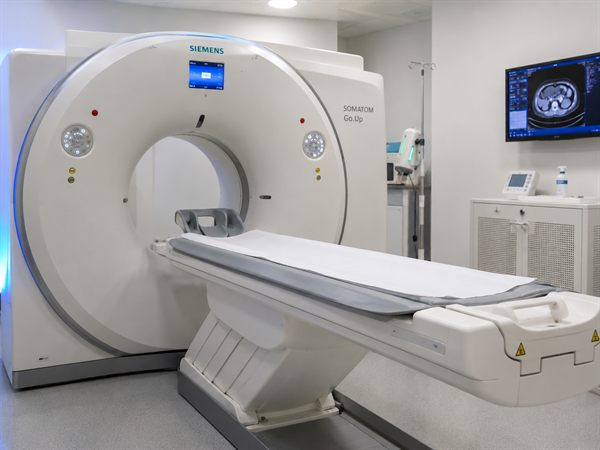
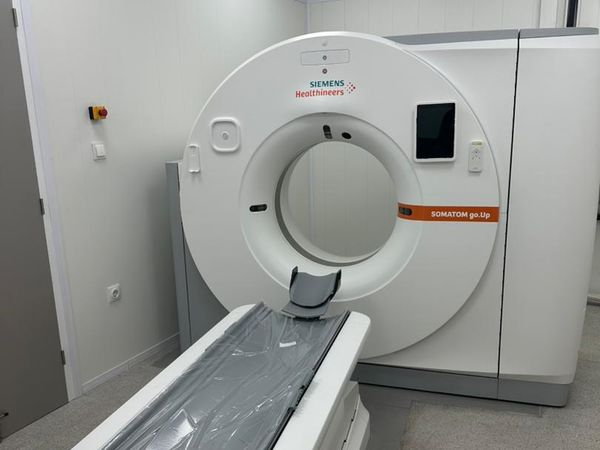
Photo reelle du scanner Siemens SOMATOM go.Up : page Scanner (FR/AR) et carte Scanner de l'accueil

diff --git a/ar/scanner/index.html b/ar/scanner/index.html
@@ -19,7 +19,7 @@
 <meta property="og:url" content="https://cimdrmerad.com/ar/scanner/">
 <meta property="og:title" content="سكانير 64 شريحة في بئر توتة | CIM الدكتور مراد">
 <meta property="og:description" content="سكانير 64 شريحة: الرأس، الصدر، البطن، العمود الفقري، سكانير القولون والأوعية. بدون موعد، بوصفة طبية.">
-<meta property="og:image" content="https://cimdrmerad.com/assets/service-scanner.jpg">
+<meta property="og:image" content="https://cimdrmerad.com/assets/scanner-somatom-go-up.jpg">
 <meta property="og:locale" content="ar_DZ">
 
 <link rel="icon" type="image/png" href="/assets/favicon.png">
@@ -137,7 +137,7 @@
   <section class="page-hero">
     <p class="breadcrumb"><a href="/ar/">الرئيسية</a> › السكانير</p>
     <h1 class="page-hero-title">سكانير 64 شريحة في بئر توتة</h1>
-    <p>سكانير متعدد الشرائح Siemens بـ 64 شريحة مع إعادة بناء ثلاثي الأبعاد. الفحوصات يُجريها ويقرأها الدكتور مراد، طبيب الأشعة.</p>
+    <p>سكانير متعدد الشرائح Siemens SOMATOM go.Up بـ 64 شريحة مع إعادة بناء ثلاثي الأبعاد. الفحوصات يُجريها ويقرأها الدكتور مراد، طبيب الأشعة.</p>
     <div class="hero-buttons">
       <a href="https://wa.me/213552055077?text=%D8%A7%D9%84%D8%B3%D9%84%D8%A7%D9%85%20%D8%B9%D9%84%D9%8A%D9%83%D9%85%D8%8C%20%D8%A3%D8%B1%D9%8A%D8%AF%20%D9%85%D8%B9%D9%84%D9%88%D9%85%D8%A7%D8%AA%20%D8%B9%D9%86%20%D8%A7%D9%84%D8%B3%D9%83%D8%A7%D9%86%D9%8A%D8%B1." target="_blank" rel="noopener" class="btn btn-whatsapp">أرسل وصفتك الطبية عبر واتساب</a>
       <a href="https://www.google.com/maps?cid=11169275753900821591" target="_blank" rel="noopener" class="btn btn-outline">موقعنا</a>
@@ -148,9 +148,15 @@
     <div class="container">
       <h2 class="section-title fade-in">ما هو السكانير؟</h2>
       <div class="section-line fade-in"></div>
-      <div class="exam-intro fade-in">
+      <div class="exam-intro-grid fade-in">
+        <div class="exam-intro">
         <p>السكانير (التصوير المقطعي) يستعمل الأشعة السينية للحصول على صور مقطعية دقيقة جدًا للجسم. جهازنا ذو 64 شريحة يسمح بتصوير سريع وإعادة بناء ثلاثي الأبعاد، لفحص الدماغ والصدر والبطن والعظام والعمود الفقري والأوعية الدموية.</p>
         <p>الفحص غير مؤلم ويستغرق بضع دقائق فقط. حسب المنطقة المفحوصة، قد يطلب طبيبكم سكانير بالحقن بمادة ملوّنة تجعل بعض الأعضاء والأوعية أكثر وضوحًا.</p>
+      </div>
+        <figure class="exam-photo">
+          <img src="/assets/scanner-somatom-go-up.jpg" alt="جهاز السكانير Siemens SOMATOM go.Up بـ 64 شريحة في مركز الدكتور مراد ببئر توتة" width="660" height="880" loading="lazy">
+          <figcaption>جهاز السكانير Siemens SOMATOM go.Up في مركزنا</figcaption>
+        </figure>
       </div>
     </div>
   </section>

diff --git a/scanner/index.html b/scanner/index.html
@@ -19,7 +19,7 @@
 <meta property="og:url" content="https://cimdrmerad.com/scanner/">
 <meta property="og:title" content="Scanner 64 coupes à Birtouta | CIM Dr MERAD">
 <meta property="og:description" content="Scanner multibarrettes 64 coupes Siemens : crâne, thorax, abdomen, rachis, coloscanner, angioscanner. Sans rendez-vous, sur ordonnance.">
-<meta property="og:image" content="https://cimdrmerad.com/assets/service-scanner.jpg">
+<meta property="og:image" content="https://cimdrmerad.com/assets/scanner-somatom-go-up.jpg">
 <meta property="og:locale" content="fr_FR">
 
 <link rel="icon" type="image/png" href="/assets/favicon.png">
@@ -137,7 +137,7 @@
   <section class="page-hero">
     <p class="breadcrumb"><a href="/">Accueil</a> › Scanner</p>
     <h1 class="page-hero-title">Scanner 64 coupes à Birtouta</h1>
-    <p>Scanner multibarrettes Siemens 64 coupes avec reconstruction 3D. Examens réalisés et interprétés par le Dr MERAD, médecin radiologue.</p>
+    <p>Scanner multibarrettes Siemens SOMATOM go.Up 64 coupes avec reconstruction 3D. Examens réalisés et interprétés par le Dr MERAD, médecin radiologue.</p>
     <div class="hero-buttons">
       <a href="https://wa.me/213552055077?text=Bonjour%2C%20je%20souhaite%20des%20informations%20sur%20un%20scanner." target="_blank" rel="noopener" class="btn btn-whatsapp">Envoyer mon ordonnance sur WhatsApp</a>
       <a href="https://www.google.com/maps?cid=11169275753900821591" target="_blank" rel="noopener" class="btn btn-outline">Nous localiser</a>
@@ -148,9 +148,15 @@
     <div class="container">
       <h2 class="section-title fade-in">Qu'est-ce qu'un scanner ?</h2>
       <div class="section-line fade-in"></div>
-      <div class="exam-intro fade-in">
+      <div class="exam-intro-grid fade-in">
+        <div class="exam-intro">
         <p>Le scanner (ou tomodensitométrie, TDM) utilise des rayons X pour obtenir des images en coupes très fines du corps. Notre appareil 64 coupes permet des acquisitions rapides et des reconstructions 3D, utiles pour explorer le cerveau, le thorax, l'abdomen, les os, la colonne et les vaisseaux.</p>
         <p>L'examen est indolore et ne dure que quelques minutes. Selon la zone étudiée, votre médecin peut demander un scanner avec injection d'un produit de contraste, qui rend certains organes et vaisseaux plus visibles.</p>
+      </div>
+        <figure class="exam-photo">
+          <img src="/assets/scanner-somatom-go-up.jpg" alt="Scanner Siemens SOMATOM go.Up 64 coupes du CIM Dr MERAD à Birtouta" width="660" height="880" loading="lazy">
+          <figcaption>Notre scanner Siemens SOMATOM go.Up</figcaption>
+        </figure>
       </div>
     </div>
   </section>

diff --git a/css/style.css b/css/style.css
@@ -1549,3 +1549,28 @@ html[dir="rtl"] .prep-list li { border-left: none; border-right: 4px solid var(-
 }
 .service-page-link:hover { color: var(--accent); }
 .service-card-link { display: block; color: inherit; cursor: pointer; }
+.exam-intro-grid {
+  display: grid;
+  grid-template-columns: 1.3fr 1fr;
+  gap: 40px;
+  align-items: center;
+  max-width: 980px;
+  margin: 0 auto;
+}
+.exam-intro-grid .exam-intro { margin: 0; }
+.exam-photo img {
+  width: 100%;
+  height: auto;
+  border-radius: 14px;
+  box-shadow: 0 16px 32px rgba(0, 0, 0, 0.10);
+}
+.exam-photo figcaption {
+  margin-top: 10px;
+  text-align: center;
+  font-size: 0.85rem;
+  color: var(--text-neutral);
+}
+@media (max-width: 800px) {
+  .exam-intro-grid { grid-template-columns: 1fr; }
+  .exam-photo { max-width: 420px; margin: 0 auto; }
+}
